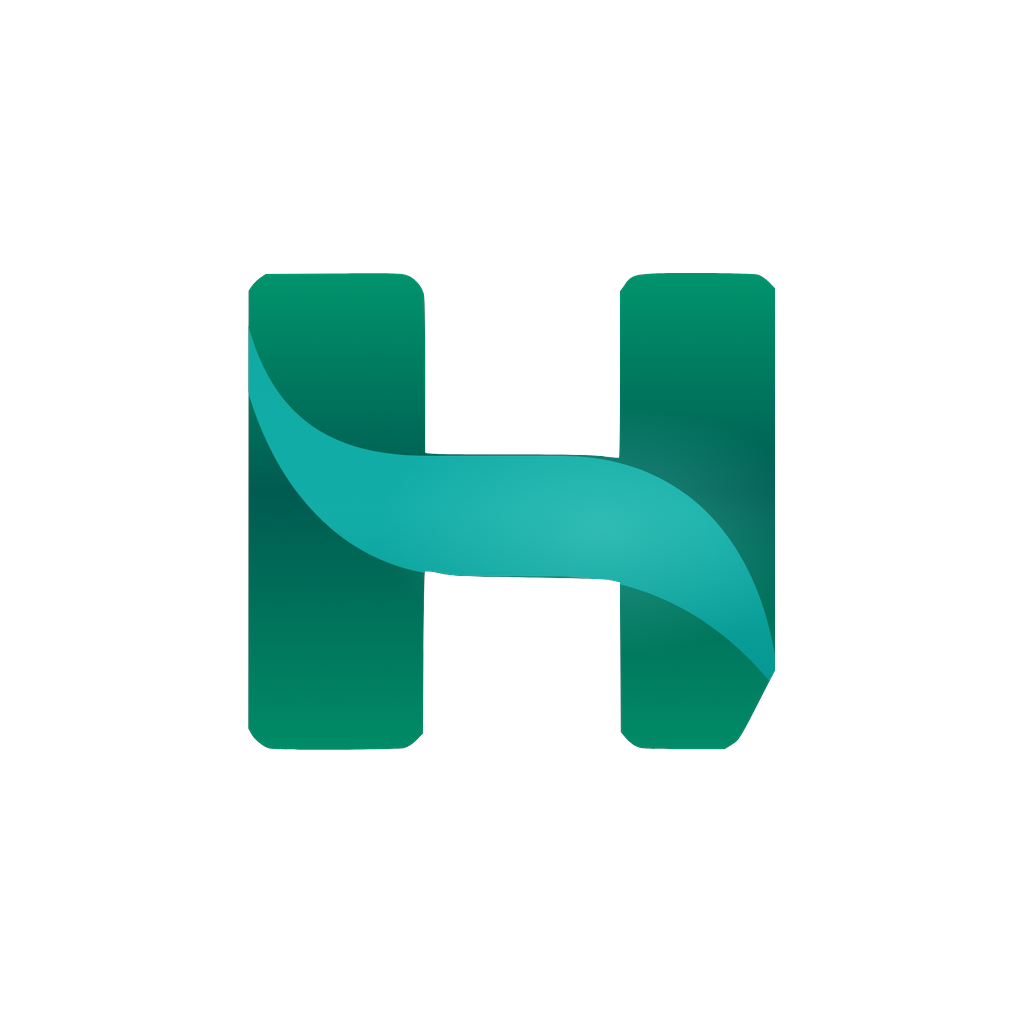
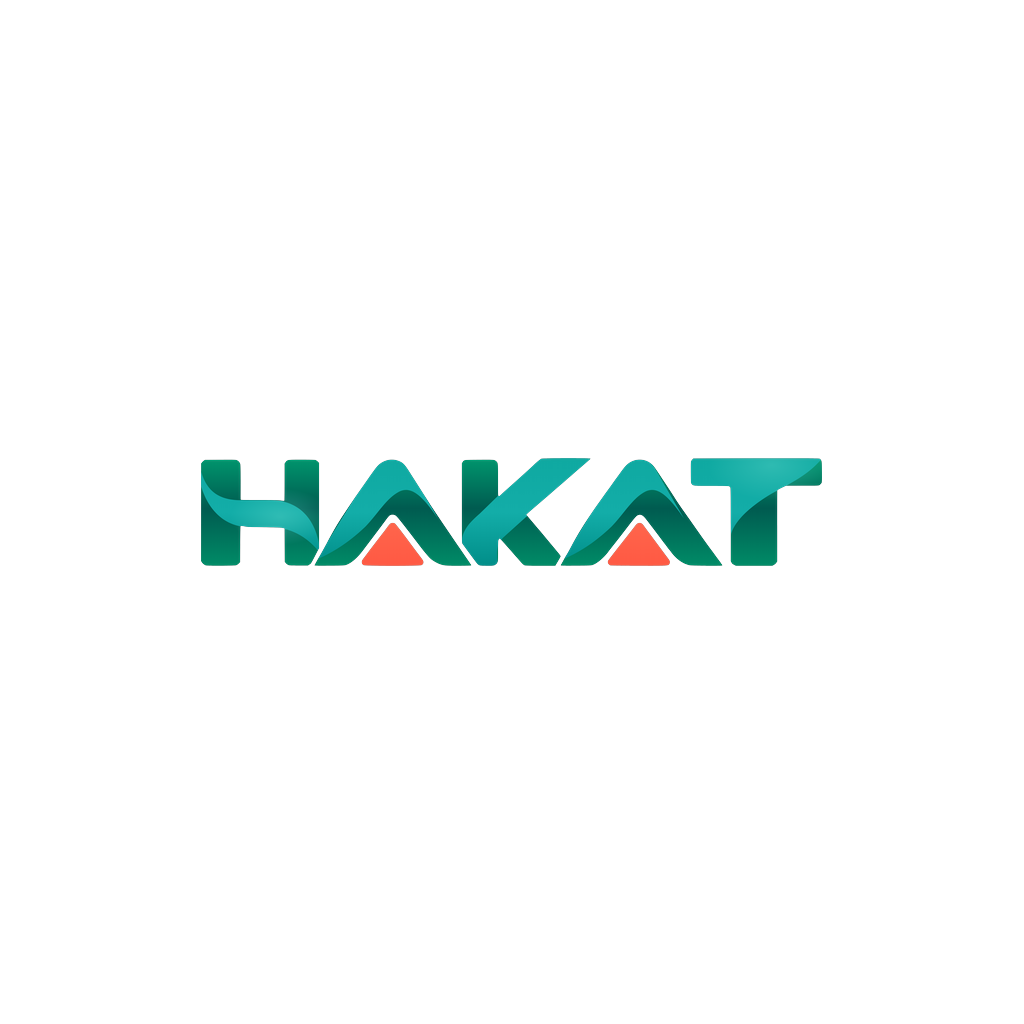
HAKAT: ícone com a palavra, e o logótipo nas cores originais no teal
Pedido do Simão (08/10/2026, fotografias do Samsung): o ícone deve mostrar
«HAKAT», não só o H; e o logótipo do ecrã de entrada não pode mudar de cor
— as variantes claras passam a ser as cores originais.

Changed region(s): [[0.1875, 0.25, 0.8125, 0.75]]

diff --git a/mobile/scripts/gerar-logotipos.py b/mobile/scripts/gerar-logotipos.py
@@ -16,10 +16,10 @@ contraste entre os dois. O coral já é o da app.
 SAÍDA, com os mesmos nomes dos ficheiros que substitui:
   assets/logo-completo{,-claro}.png   as letras HAKAT (cabeçalhos grandes, entrada)
   assets/logo-marca{,-claro}.png      só o H (cabeçalhos pequenos)
-  assets/icon.png                     1024  o H sobre branco — a palavra inteira é
-                                            três vezes mais larga que alta e não
-                                            se lia num ícone quadrado
-  assets/adaptive-icon.png            1024  (frente do ícone Android; fundo branco no app.json)
+  assets/icon.png                     1024  a PALAVRA HAKAT sobre branco (pedido dele,
+                                            08/10: «o ícone deve mostrar HAKAT»)
+  assets/adaptive-icon.png            1024  a palavra, dentro do círculo do Android
+                                            (fundo branco no app.json)
   assets/splash-icon.png              1024  as letras, sobre branco
   assets/favicon.png                  48
   ../painel/src/assets/logo-marca.png       (o painel)
@@ -27,8 +27,10 @@ SAÍDA, com os mesmos nomes dos ficheiros que substitui:
   ../loja/icone-512.png               512   (ficha da Play Store)
   ../loja/destaque-1024x500.png       1024x500
 
-A VARIANTE CLARA (ecrãs teal) sobe a luminosidade dos verdes/teais em HLS, com
-menos saturação; o coral fica.
+AS VARIANTES «CLARAS» SÃO IGUAIS ÀS NORMAIS desde 08/10/2026: ele não quer o
+logótipo com outra cor no ecrã de entrada («isto não podia ser mudado»). As
+cores originais leem-se sobre o teal (verificado na foto da entrada e no teal
+liso do ecrã de espera). Os ficheiros -claro ficam para o Logo.js não mudar.
 
 Correr:  python3 scripts/gerar-logotipos.py
 Precisa: Pillow e o Google Chrome
@@ -73,23 +75,6 @@ def so_o_h(letras):
     return regiao.crop(regiao.getbbox())
 
 
-def aclarar(imagem, quanto=0.45):
-    """Sobe a luminosidade dos teais e deixa o coral em paz. Sobe em HLS, com
-    a matiz e a saturação no sítio: misturar com branco deixava o teal
-    acinzentado sobre o teal dos ecrãs (visto a 07/10/2026)."""
-    import colorsys
-    im = imagem.copy()
-    px = im.load()
-    for y in range(im.height):
-        for x in range(im.width):
-            r, g, b, a = px[x, y]
-            if a and (g > r * 1.15 and b > r * 1.05):
-                h, l, s = colorsys.rgb_to_hls(r / 255, g / 255, b / 255)
-                l = l + (0.92 - l) * quanto
-                s = s * 0.6  # sem isto o teal claro ficava fluorescente
-                px[x, y] = tuple(round(c * 255) for c in colorsys.hls_to_rgb(h, l, s)) + (a,)
-    return im
-
 def encaixar(desenho, larg, alt, fundo=None, margem=0.04, ocupa=1.0):
     tela = Image.new('RGBA', (larg, alt), (fundo + (255,)) if fundo else (0, 0, 0, 0))
     util = (larg * (1 - 2 * margem) * ocupa, alt * (1 - 2 * margem) * ocupa)
@@ -109,9 +94,9 @@ def main():
     loja = os.path.join(raiz, 'loja')
 
     completo = desenhar_svg(origem)
-    completo_claro = aclarar(completo, 0.38)
+    completo_claro = completo
     marca = so_o_h(completo)
-    marca_clara = aclarar(marca, 0.38)
+    marca_clara = marca
     # As telas seguem as proporções do desenho; o Logo.js usa estas medidas.
     m_alt = 200
     m_larg = round(marca.width * m_alt / marca.height)
@@ -124,15 +109,16 @@ def main():
         (encaixar(completo_claro, c_larg, c_alt, margem=0), os.path.join(assets, 'logo-completo-claro.png')),
         (encaixar(marca, m_larg, m_alt, margem=0), os.path.join(assets, 'logo-marca.png')),
         (encaixar(marca_clara, m_larg, m_alt, margem=0), os.path.join(assets, 'logo-marca-claro.png')),
-        (encaixar(marca, 1024, 1024, fundo=BRANCO, ocupa=0.72), os.path.join(assets, 'icon.png')),
-        # A frente do ícone adaptativo do Android fica mais pequena: o sistema
-        # recorta-a num círculo, e o que sair da zona segura desaparece.
-        (encaixar(marca, 1024, 1024, ocupa=0.56), os.path.join(assets, 'adaptive-icon.png')),
+        (encaixar(completo, 1024, 1024, fundo=BRANCO, ocupa=0.9), os.path.join(assets, 'icon.png')),
+        # A frente do ícone adaptativo do Android: o sistema recorta-a num
+        # círculo (zona segura = 66% do lado), e uma palavra seis vezes mais
+        # larga que alta só cabe se a largura for ~0,65 do lado.
+        (encaixar(completo, 1024, 1024, ocupa=0.66), os.path.join(assets, 'adaptive-icon.png')),
         (encaixar(completo, 1024, 1024, ocupa=0.7), os.path.join(assets, 'splash-icon.png')),
         (encaixar(marca, 48, 48), os.path.join(assets, 'favicon.png')),
         (encaixar(marca, m_larg, m_alt, margem=0), os.path.join(raiz, 'painel', 'src', 'assets', 'logo-marca.png')),
         (encaixar(marca, 48, 48), os.path.join(raiz, 'painel', 'public', 'favicon.png')),
-        (encaixar(marca, 512, 512, fundo=BRANCO, ocupa=0.72), os.path.join(loja, 'icone-512.png')),
+        (encaixar(completo, 512, 512, fundo=BRANCO, ocupa=0.9), os.path.join(loja, 'icone-512.png')),
         (encaixar(completo, 1024, 500, fundo=BRANCO, ocupa=0.8), os.path.join(loja, 'destaque-1024x500.png')),
     ]
     for imagem, destino in saidas:
